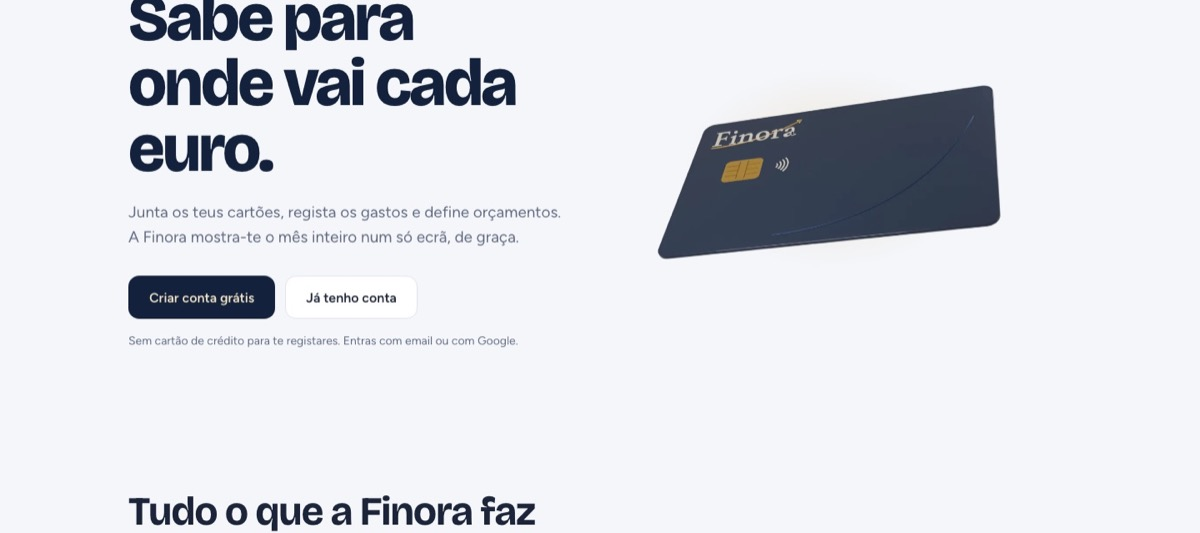
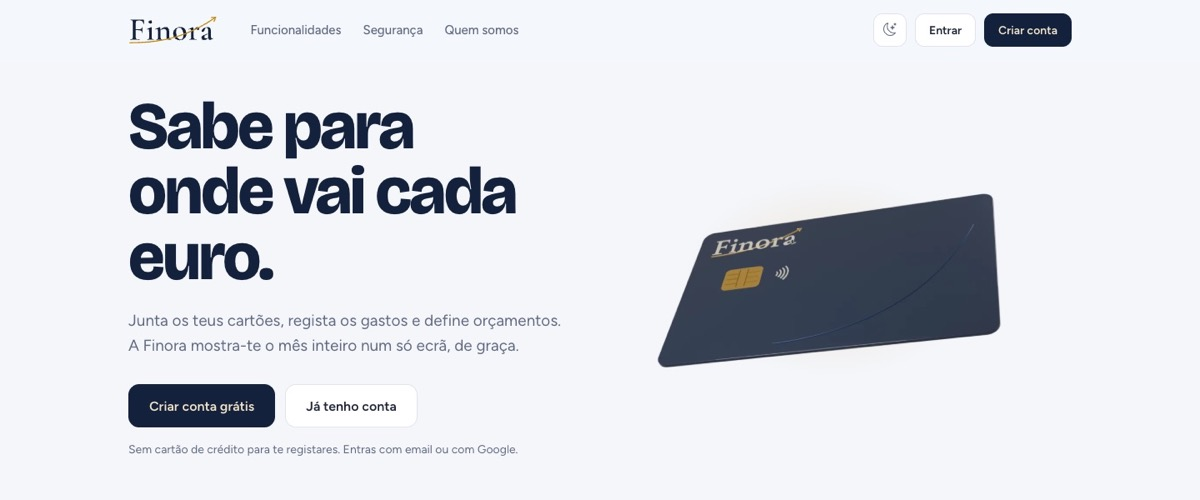
Galeria da Finora com três capturas e nome sem o g cortado
O gradiente do título usa background-clip: text, que corta as letras
com descendente quando o line-height é 1. As capturas passam para uma
galeria por cima do texto, para não sobrar espaço vazio ao lado da lista.

diff --git a/index.html b/index.html
@@ -50,23 +50,35 @@
       <h2 id="projects-title"><span class="num">01</span> Projects</h2>
 
       <article class="feature">
-        <a class="shot" href="https://finora.spaincentral.cloudapp.azure.com/site/" aria-label="Open the live Finora site">
-          <img src="assets/finora.jpg" width="1200" height="533" alt="Finora home page: the headline 'Sabe para onde vai cada euro' next to a 3D bank card">
-        </a>
-        <div class="feature-body">
+        <div class="gallery">
+          <figure class="main">
+            <a href="assets/finora.jpg"><img src="assets/finora.jpg" width="1200" height="500" alt="Finora home page: the headline 'Sabe para onde vai cada euro' next to a 3D bank card"></a>
+          </figure>
+          <figure>
+            <a href="assets/finora-features.jpg"><img src="assets/finora-features.jpg" width="1000" height="396" alt="Finora feature list: cards, transactions, invoice reader, budgets, savings, reminders, analysis, investments and assistant" loading="lazy"></a>
+            <figcaption>Everything in one place</figcaption>
+          </figure>
+          <figure>
+            <a href="assets/finora-security.jpg"><img src="assets/finora-security.jpg" width="1000" height="375" alt="Finora security section: hashed passwords, brute-force lockout, email confirmation and per-user access checks" loading="lazy"></a>
+            <figcaption>Security, explained to users</figcaption>
+          </figure>
+        </div>
+        <div class="feature-intro">
           <p class="tag">Featured · PHP · MariaDB · JavaScript</p>
           <h3>Finora</h3>
           <p>A personal finance web app: cards, spending, budgets, payment reminders, savings goals and a tracker for investments. It started as my final school project (PAP) with a classmate, and I kept working on it as a portfolio and security project.</p>
+          <div class="links">
+            <a class="btn primary" href="https://finora.spaincentral.cloudapp.azure.com/site/">Live site</a>
+            <a class="btn" href="https://github.com/diogofreire-dev/Finora">Source code</a>
+          </div>
+        </div>
+        <div class="feature-body">
           <ul class="ticks">
             <li>Audited against the <strong>OWASP Top 10</strong>: prepared statements only, CSRF tokens on every POST, per-user checks against IDOR, rate limiting on login and password reset.</li>
             <li>Reads the QR code on Portuguese invoices with the camera and fills in the amount, date and company (looked up by VAT number through VIES).</li>
             <li>An assistant that answers questions about your spending, with the model called only from the server and user data kept apart from the instructions.</li>
             <li>Deployed by me on an Ubuntu VM in Azure, with Apache, HTTPS and CI on GitHub Actions.</li>
           </ul>
-          <div class="links">
-            <a class="btn primary" href="https://finora.spaincentral.cloudapp.azure.com/site/">Live site</a>
-            <a class="btn" href="https://github.com/diogofreire-dev/Finora">Source code</a>
-          </div>
         </div>
       </article>
 

diff --git a/styles.css b/styles.css
@@ -80,7 +80,7 @@ code { font-family: var(--mono); font-size: .88em; background: var(--code); padd
 .prompt .user { color: var(--green); }
 .prompt .path { color: var(--accent); }
 h1 {
-  font-size: clamp(2.75rem, 8vw, 5rem); line-height: 1; letter-spacing: -.03em; margin: 0 0 1.25rem;
+  font-size: clamp(2.75rem, 8vw, 5rem); line-height: 1.15; letter-spacing: -.03em; margin: 0 0 1rem; padding-bottom: .08em;
   background: linear-gradient(100deg, var(--ink) 30%, var(--accent) 70%, var(--violet));
   -webkit-background-clip: text; background-clip: text; color: transparent;
 }
@@ -107,13 +107,28 @@ h3 { margin: 0 0 .5rem; font-size: 1.3rem; }
 .tag { font: .8rem var(--mono); color: var(--muted); margin: 0 0 .5rem; }
 
 .feature {
-  display: grid; grid-template-columns: 1.1fr 1fr; gap: 2rem; align-items: start;
+  display: grid; grid-template-columns: 1fr 1.15fr; gap: 1.5rem 2.5rem; align-items: start;
   background: var(--surface); border: 1px solid var(--line); border-radius: 18px; padding: 1.5rem;
   border-top: 4px solid var(--accent);
 }
 .feature h3 { font-size: 1.75rem; }
-.shot img { border-radius: 12px; border: 1px solid var(--line); }
-.ticks { padding-left: 1.1rem; margin: 1rem 0 1.5rem; }
+.feature-intro > p:not(.tag) { margin: 0 0 1.25rem; }
+
+/* Big shot on the left, two smaller ones stacked on the right; the images crop to fill their cell. */
+.gallery {
+  grid-column: 1 / -1;
+  display: grid; grid-template-columns: 2fr 1fr; grid-template-rows: 1fr 1fr; gap: .75rem;
+}
+.gallery figure { margin: 0; position: relative; overflow: hidden; border-radius: 12px; border: 1px solid var(--line); }
+.gallery .main { grid-row: 1 / 3; }
+.gallery a { display: block; height: 100%; }
+.gallery img { width: 100%; height: 100%; object-fit: cover; object-position: left top; }
+.gallery figcaption {
+  position: absolute; left: .5rem; bottom: .5rem;
+  font: .75rem var(--mono); padding: .2rem .5rem; border-radius: 6px;
+  background: color-mix(in srgb, var(--surface) 88%, transparent); color: var(--ink);
+}
+.ticks { padding-left: 1.1rem; margin: 0; }
 .ticks li { margin-bottom: .5rem; }
 .ticks li::marker { content: "▸ "; color: var(--accent); }
 
@@ -145,7 +160,9 @@ h3 { margin: 0 0 .5rem; font-size: 1.3rem; }
 
 @media (max-width: 760px) {
   .hero { padding: 3.5rem 0 2.5rem; }
-  .feature, .grid, .skills { grid-template-columns: 1fr; }
+  .feature, .grid, .skills, .gallery { grid-template-columns: 1fr; }
+  .gallery { grid-template-rows: auto; }
+  .gallery .main { grid-row: auto; }
   .feature { padding: 1rem; }
   .nav ul { gap: 1rem; font-size: .95rem; }
 }
